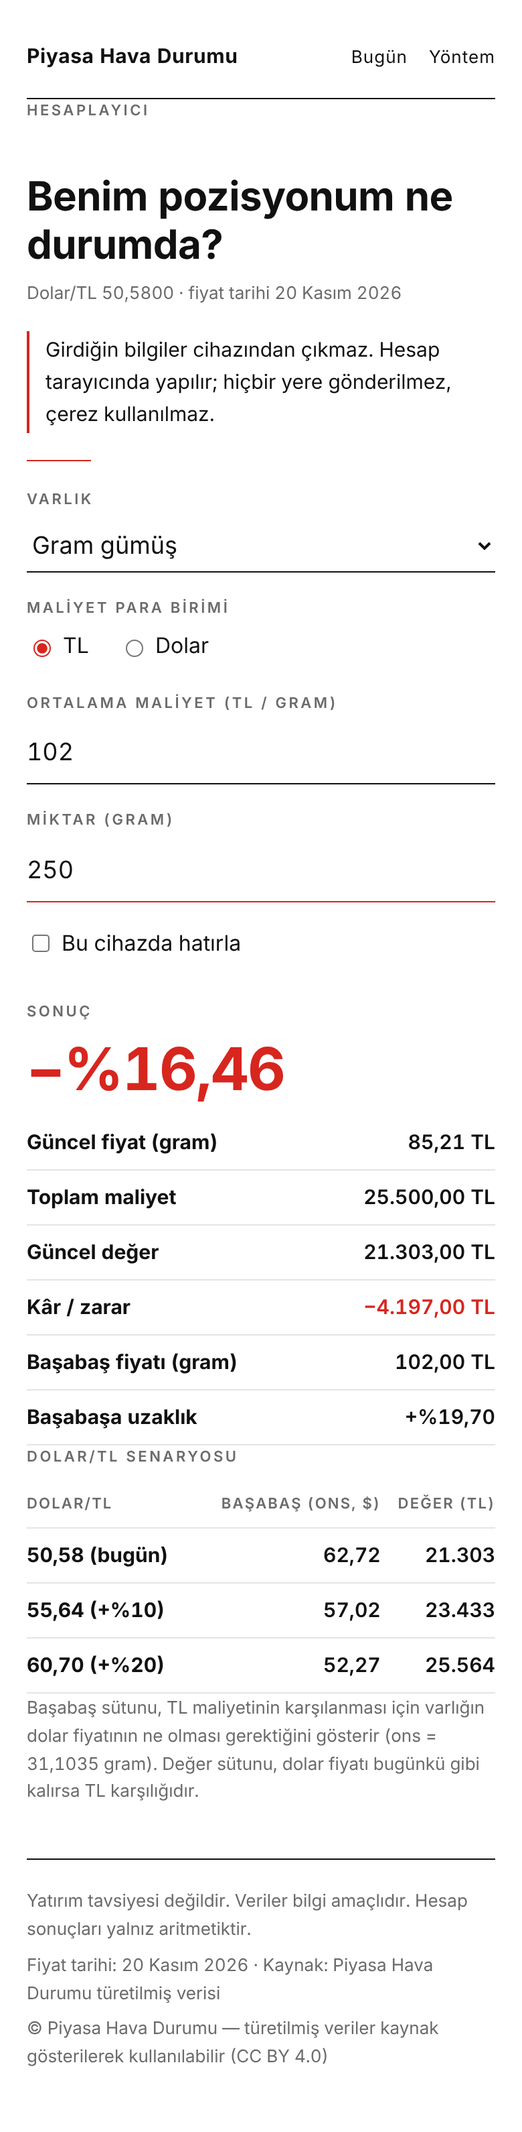
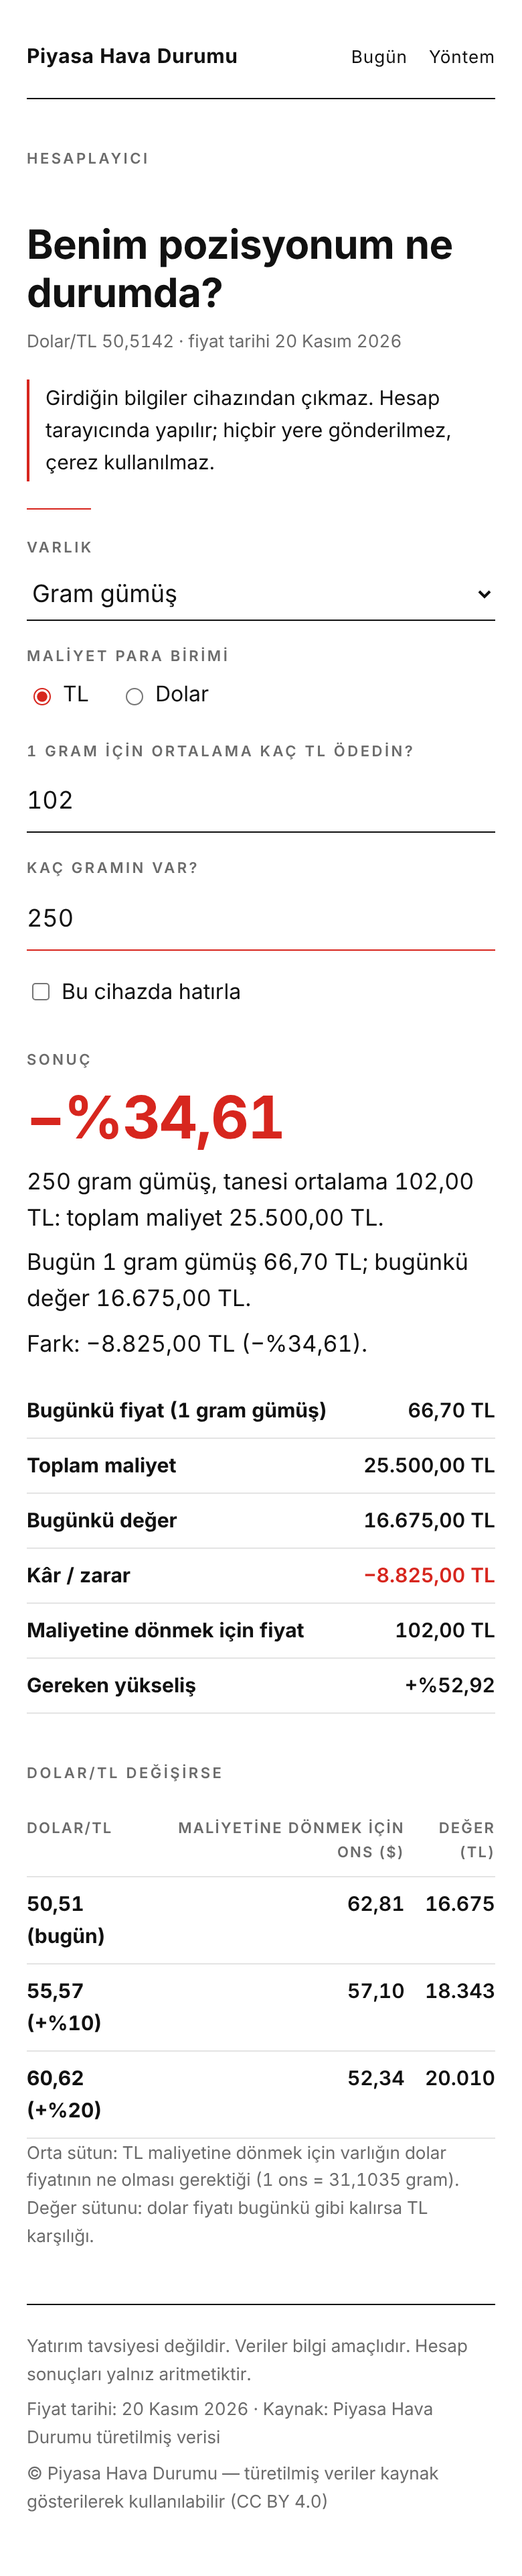
Calculator: plain-language questions, summary sentences, unit sanity warning, drop meaningless dollar breakeven column
Claude-Session: https://claude.ai/code/session_01HYDeffUWRPSPqjEQt7sETn

diff --git a/piyasa/hesapla.js b/piyasa/hesapla.js
@@ -67,57 +67,98 @@
     } catch (e) { /* ignore */ }
   }
 
+  var UNIT_TR = { gram_altin: "gram altın", gram_gumus: "gram gümüş", dolar: "dolar", btc: "BTC", eth: "ETH", bist100: "puan" };
+
+  function labels(a, c) {
+    var cur = c === "USD" ? "dolar" : "TL";
+    if (a === "dolar") return ["1 doları ortalama kaç TL'ye aldın?", "Kaç doların var?"];
+    if (a === "bist100") return ["Aldığında BIST 100 ortalama kaç puandı?", "Yatırdığın tutar (TL)"];
+    if (a === "btc" || a === "eth") return ["1 " + UNIT_TR[a] + " için ortalama kaç " + cur + " ödedin?", "Kaç " + UNIT_TR[a] + " var?"];
+    return ["1 gram için ortalama kaç " + cur + " ödedin?", "Kaç gramın var?"];
+  }
+  function todayPrice(a, c) {
+    var px = P ? C.prices(a, P) : null;
+    if (!px) return null;
+    return a === "dolar" || a === "bist100" || c !== "USD" ? px.tl : px.usd;
+  }
+
   function update() {
     var a = $("varlik").value, A = C.ASSETS[a];
     var tlOnly = !!(A && A.tlOnly);
     $("ccy-set").hidden = tlOnly;
     var c = tlOnly ? "TL" : ccy();
-    $("maliyet-label").textContent = "Ortalama maliyet (" + (c === "USD" ? "dolar" : "TL") + " / " + A.unit + ")";
-    $("miktar-label").textContent = "Miktar (" + A.unit + ")";
+    var L = labels(a, c);
+    $("maliyet-label").textContent = L[0];
+    $("miktar-label").textContent = L[1];
+    var tp = todayPrice(a, c);
+    $("maliyet").placeholder = tp ? "bugün: " + num(tp, tp >= 1000 ? 0 : 2) : "örn. 102,50";
+    $("miktar").placeholder = a === "bist100" ? "örn. 10.000" : "örn. 10";
     save();
     var out = $("sonuc");
     out.textContent = "";
     if (!P) return;
-    var r = C.compute(a, parse($("maliyet").value), c, parse($("miktar").value), P);
+    var cost = parse($("maliyet").value), qty = parse($("miktar").value);
+    if (a === "bist100" && cost > 0) qty = qty / cost;           // TL invested -> index units
+    var r = C.compute(a, cost, c, qty, P);
     if (!r) {
       if ($("maliyet").value || $("miktar").value) out.appendChild(el("p", "mute small", "Maliyet ve miktarı sıfırdan büyük sayı olarak gir. Bu varlık için güncel fiyat yoksa hesap yapılamaz."));
       return;
     }
+    var unitName = UNIT_TR[a], cur = r.ccy === "USD" ? "dolar" : "TL";
     out.appendChild(el("p", "label", "Sonuç"));
-    var pl = el("p", "big" + (r.plPct < 0 ? " neg" : ""), signedPct(r.plPct));
-    out.appendChild(pl);
+    out.appendChild(el("p", "big" + (r.plPct < 0 ? " neg" : ""), signedPct(r.plPct)));
+
+    // plain-language summary (every number from the calculation above)
+    var s1 = a === "bist100"
+      ? num(r.costTotal, 2) + " TL, BIST 100 ortalama " + num(r.cost, 0) + " puandayken yatırılmış."
+      : num(r.amount, Number.isInteger(r.amount) ? 0 : (r.amount < 1 ? 4 : 2)) + " " + unitName + ", tanesi ortalama " + money(r.cost, r.ccy) + ": toplam maliyet " + money(r.costTotal, r.ccy) + ".";
+    var s2 = a === "bist100"
+      ? "Bugün endeks " + num(r.price, 0) + " puan; aynı oranla bugünkü değer " + money(r.value, "TL") + "."
+      : "Bugün 1 " + unitName + " " + money(r.price, r.ccy) + "; bugünkü değer " + money(r.value, r.ccy) + ".";
+    var s3 = "Fark: " + (r.pl < 0 ? "−" : "+") + money(Math.abs(r.pl), r.ccy) + " (" + signedPct(r.plPct) + ").";
+    [s1, s2, s3].forEach(function (x) { out.appendChild(el("p", "sum", x)); });
+    var ratio = r.cost / r.price;
+    if (ratio > 2 || ratio < 0.5) {
+      out.appendChild(el("p", "notice", "Kontrol et: girdiğin maliyet (" + money(r.cost, r.ccy) + ") bugünkü fiyatın (" +
+        money(r.price, r.ccy) + ") " + num(ratio, 1) + " katı. " + "1 " + unitName + " için ödediğin birim fiyatı (" + cur + ") girdiğinden emin ol."));
+    }
+
     var t = el("table"), tb = el("tbody");
-    row(tb, "Güncel fiyat (" + r.unit + ")", money(r.price, r.ccy));
+    row(tb, a === "bist100" ? "Bugünkü BIST 100" : "Bugünkü fiyat (1 " + unitName + ")", a === "bist100" ? num(r.price, 0) + " puan" : money(r.price, r.ccy));
     row(tb, "Toplam maliyet", money(r.costTotal, r.ccy));
-    row(tb, "Güncel değer", money(r.value, r.ccy));
+    row(tb, "Bugünkü değer", money(r.value, r.ccy));
     row(tb, "Kâr / zarar", (r.pl < 0 ? "−" : "+") + money(Math.abs(r.pl), r.ccy), r.pl < 0 ? "neg" : null);
-    row(tb, "Başabaş fiyatı (" + r.unit + ")", money(r.breakeven, r.ccy));
-    row(tb, "Başabaşa uzaklık", r.toBreakevenPct <= 0 ? "Başabaşın üzerinde" : signedPct(r.toBreakevenPct));
+    row(tb, "Maliyetine dönmek için fiyat", a === "bist100" ? num(r.breakeven, 0) + " puan" : money(r.breakeven, r.ccy));
+    row(tb, "Gereken yükseliş", r.toBreakevenPct <= 0 ? "Yok (maliyetin üzerindesin)" : signedPct(r.toBreakevenPct));
     t.appendChild(tb);
     out.appendChild(t);
 
-    out.appendChild(el("p", "label kicker", "Dolar/TL senaryosu"));
+    if (a === "bist100") return;
+    out.appendChild(el("p", "label kicker", "Dolar/TL değişirse"));
+    var showBe = a !== "dolar";
     var t2 = el("table"), th = el("thead"), hr = el("tr");
     var cols = ["Dolar/TL"];
-    if (r.ccy === "TL") cols.push("Başabaş (" + (r.scenarios[0].breakevenUsdUnit === "ons" ? "ons, $" : r.unit + ", $") + ")");
-    else cols.push("Başabaş (TL / " + r.unit + ")");
-    if (a !== "bist100") cols.push("Değer (TL)");
-    cols.forEach(function (c) { hr.appendChild(el("th", null, c)); });
+    if (showBe) cols.push(r.ccy === "TL"
+      ? (A.metal ? "Maliyetine dönmek için ons ($)" : "Maliyetine dönmek için 1 " + unitName + " ($)")
+      : "Maliyetin TL karşılığı (1 " + unitName + ")");
+    cols.push("Değer (TL)");
+    cols.forEach(function (x) { hr.appendChild(el("th", null, x)); });
     th.appendChild(hr); t2.appendChild(th);
     var b2 = el("tbody");
-    r.scenarios.forEach(function (s) {
+    r.scenarios.forEach(function (sc) {
       var tr = el("tr");
-      tr.appendChild(el("th", null, num(s.usdtry, 2) + (s.shockPct ? " (+%" + s.shockPct + ")" : " (bugün)")));
-      tr.appendChild(el("td", null, r.ccy === "TL" ? num(s.breakevenUsd, 2) : num(s.breakevenTl, 2)));
-      if (a !== "bist100") tr.appendChild(el("td", null, s.valueTl == null ? "—" : num(s.valueTl, 0)));
+      tr.appendChild(el("th", null, num(sc.usdtry, 2) + (sc.shockPct ? " (+%" + sc.shockPct + ")" : " (bugün)")));
+      if (showBe) tr.appendChild(el("td", null, num(r.ccy === "TL" ? sc.breakevenUsd : sc.breakevenTl, 2)));
+      tr.appendChild(el("td", null, sc.valueTl == null ? "—" : num(sc.valueTl, 0)));
       b2.appendChild(tr);
     });
     t2.appendChild(b2);
     out.appendChild(t2);
-    var note = r.ccy === "TL"
-      ? "Başabaş sütunu, TL maliyetinin karşılanması için varlığın dolar fiyatının ne olması gerektiğini gösterir" + (A.metal ? " (ons = 31,1035 gram)" : "") + ". Değer sütunu, dolar fiyatı bugünkü gibi kalırsa TL karşılığıdır."
-      : "Maliyet dolar cinsinden; kur senaryosu yalnız TL karşılığını değiştirir. Değer sütunu, dolar fiyatı bugünkü gibi kalırsa TL karşılığıdır.";
-    if (a === "bist100") note = "BIST 100 TL cinsinden izlenir; başabaş sütunu, endeksin dolar bazında karşılığını gösterir.";
+    var note = a === "dolar"
+      ? "Değer sütunu, dolar/TL bu seviyeye gelirse elindeki dolarların TL karşılığıdır."
+      : r.ccy === "TL"
+        ? "Orta sütun: TL maliyetine dönmek için varlığın dolar fiyatının ne olması gerektiği" + (A.metal ? " (1 ons = 31,1035 gram)" : "") + ". Değer sütunu: dolar fiyatı bugünkü gibi kalırsa TL karşılığı."
+        : "Maliyet dolar cinsinden; kur yalnız TL karşılığını değiştirir. Değer sütunu: dolar fiyatı bugünkü gibi kalırsa TL karşılığı.";
     out.appendChild(el("p", "mute small", note));
   }
 

diff --git a/piyasa/style.css b/piyasa/style.css
@@ -123,3 +123,6 @@ header.masthead nav a+a{margin-left:16px}
 .key.k-grey{background:#9a9a9a}
 .key.k-retro{background:#cfcfcf;height:8px;width:8px}
 .chart-credit{margin-top:4px}
+.res .sum{font-size:17px;margin:0 0 6px}
+.res .notice{margin:14px 0}
+.res table{margin-top:16px}
